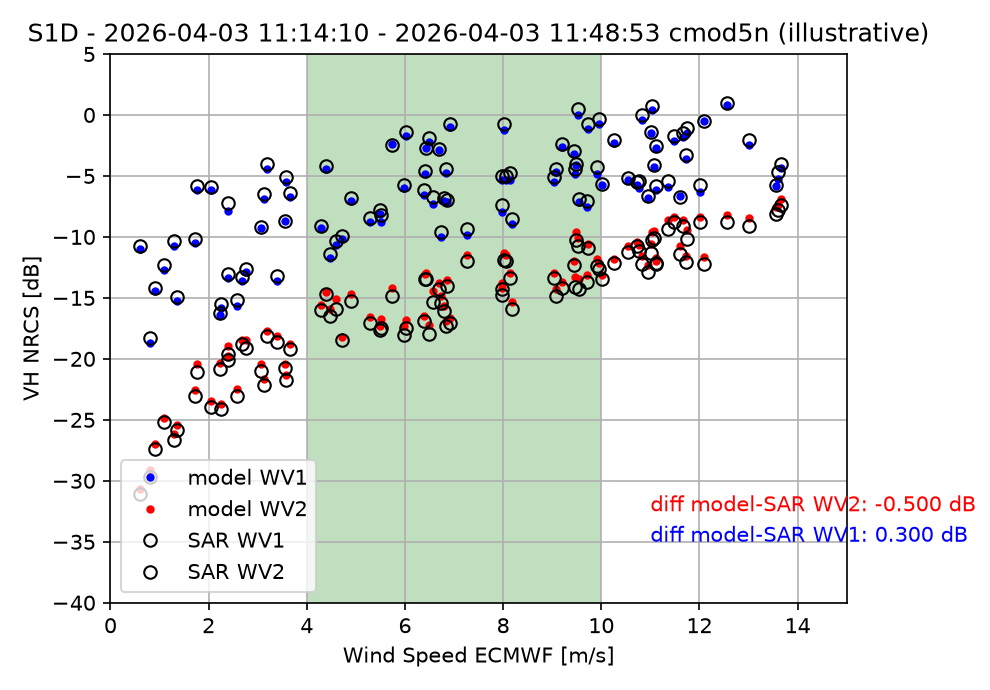
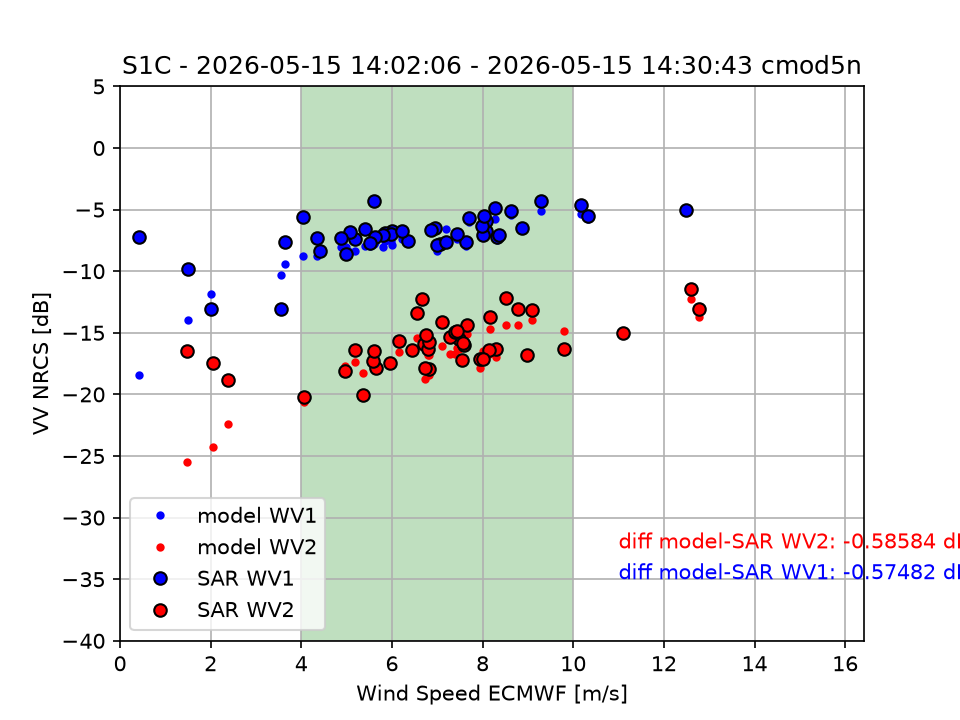
fix: use full co-polarisation (VV/HH) in the NRCS figure y-label
The y-axis of the per-SAFE NRCS-vs-wind figure was built from the single
polarisation char parsed from the SAFE name, so a V-pol product was
labelled 'V NRCS [dB]' (and a one-off ad-hoc rendering had published an
outright wrong 'VH NRCS' in the docs). The co-polarisation is now doubled
('VV'/'HH') in the plot label, the illustrative docs figure is replaced
by a real re-plot (s1wvfig) of the S1C_WV_OCN__2SSV 2026-05-15 SAFE, and
a regression test pins the expected label.

Closes #19

diff --git a/tests/test_figure.py b/tests/test_figure.py
@@ -2,10 +2,15 @@
 
 from __future__ import annotations
 
+import matplotlib as mpl
+
+mpl.use("Agg")
+import matplotlib.pyplot as plt
 import numpy as np
 import pytest
 import xarray as xr
 
+from s1wvcalibration.calibration import PlotNRCSvsWindPerSafe
 from s1wvcalibration.figure import (
     _pol_str,
     make_nrcs_vs_wind_figure,
@@ -104,3 +109,33 @@ def test_pol_str_variants():
     assert _pol_str(b"V") == "V"
     assert _pol_str("H") == "H"
     assert _pol_str(np.bytes_(b"V")) == "V"
+
+
+@pytest.mark.parametrize(
+    ("pol", "expected"), [("V", "VV NRCS [dB]"), ("H", "HH NRCS [dB]")]
+)
+def test_ylabel_is_full_copolarisation(tmp_path, pol, expected):
+    # Regression for issue #19: the y-axis must show the full co-polarisation
+    # (VV/HH), not the single char parsed from the SAFE name ("V"/"H").
+    n = 4
+    inc = np.array([18.0, 25.0, 32.0, 40.0])
+    spd = np.array([4.0, 6.0, 8.0, 12.0])
+    sig = np.full(n, 0.04)
+    gmf = np.full(n, 0.04)
+    _, fig = PlotNRCSvsWindPerSafe(
+        spd,
+        inc < 30,
+        inc > 30,
+        -0.1,
+        -0.2,
+        SAFE,
+        gmf,
+        sig,
+        tmp_path,
+        pol,
+        gmf_name="cmod5n",
+    )
+    try:
+        assert fig.axes[0].yaxis.get_label().get_text() == expected
+    finally:
+        plt.close(fig)

diff --git a/src/s1wvcalibration/calibration.py b/src/s1wvcalibration/calibration.py
@@ -1193,7 +1193,8 @@ def PlotNRCSvsWindPerSafe(
     )
 
     plt.xlabel("Wind Speed ECMWF [m/s]")
-    plt.ylabel(pol + " NRCS [dB]")
+    # S-1 WV is co-polarized: single-char "V"/"H" -> full "VV"/"HH" in the label.
+    plt.ylabel(pol + pol + " NRCS [dB]")
     plt.title(
         satellite + " - " + str(date_sar1) + " - " + str(date_sar2) + " " + gmf_name
     )

diff --git a/docs/index.md b/docs/index.md
@@ -22,11 +22,12 @@ offset between the model and SAR points is the calibration constant.
 
 ```{image} _static/wind_vs_sig_calibrated_cmod5n.png
 :width: 640px
-:alt: NRCS vs wind speed for a Sentinel-1 WV SAFE (illustrative)
+:alt: NRCS vs wind speed for the S1C_WV_OCN__2SSV SAFE of 2026-05-15
 ```
 
-_Illustrative figure (synthetic SAR points around the real xsarsea CMOD5n
-curve); the operational figure uses the measured imagettes of the SAFE._
+_Real operational figure (CMOD5n) produced by `s1wvfig` from the calibration
+NetCDF of `S1C_WV_OCN__2SSV_20260515T140206` (V-polarized, VV). The y-axis
+reports the measured co-polarized NRCS._
 
 ## Indices and tables
 
